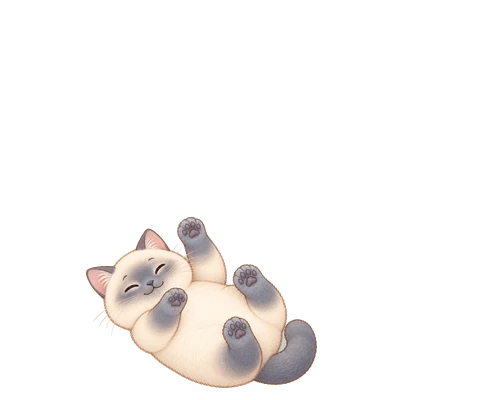
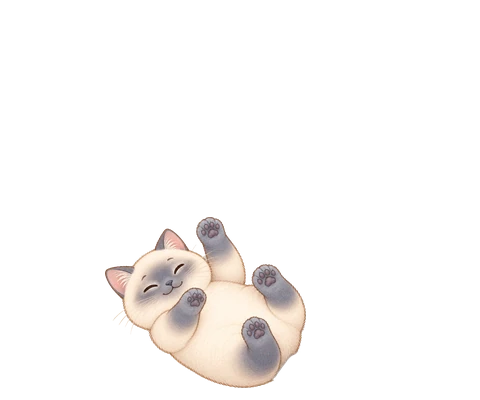
Add tail swish for tchelet and zohar (belly1)
Claude-Session: https://claude.ai/code/session_01E7v64VRdhvH8oCgXhRmXMK

Changed region(s): [[0.1562, 0.54, 0.6875, 0.99]]

diff --git a/index.html b/index.html
@@ -889,6 +889,8 @@
     'tapuz-belly1': { origin: '60.5% 88.2%' },
     'sheleg-belly1': { origin: '59.0% 91.1%' },
     'dvash-belly1': { origin: '64.9% 80.2%' },
+    'tchelet-belly1': { origin: '63.4% 81.8%' },
+    'zohar-belly1': { origin: '62.0% 85.8%' },
   };
   function catLayer(v, it) {
     const pose = v.pose || it.pose;
